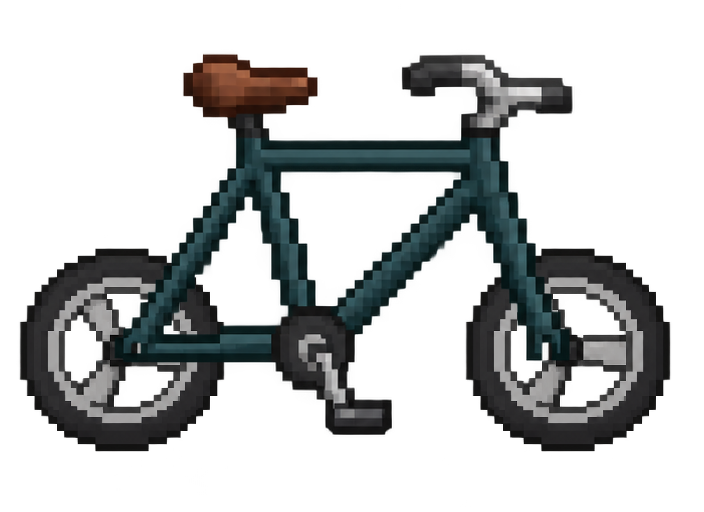
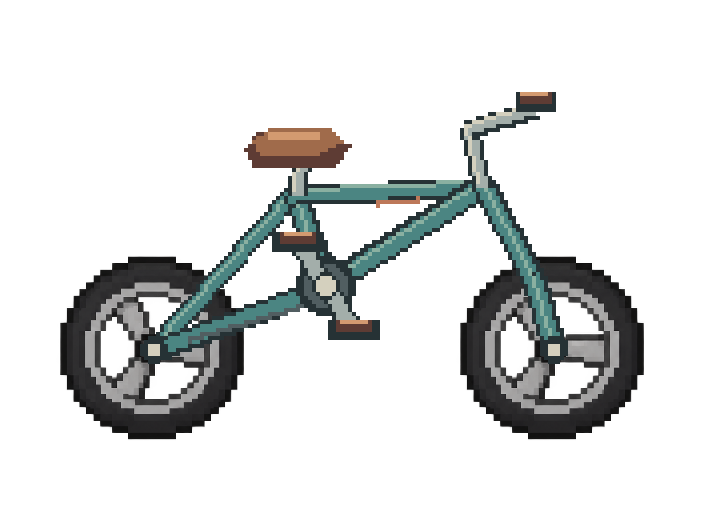
art: 重制Q版自行车车架、曲柄和物品图标

diff --git a/Tools/Art/GenerateChibiBicycle.py b/Tools/Art/GenerateChibiBicycle.py
@@ -1,0 +1,143 @@
+"""生成与 Q 版骑乘锚点匹配的低座自行车车架、曲柄和物品图标。"""
+
+from pathlib import Path
+
+from PIL import Image, ImageDraw
+
+
+PROJECT_ROOT = Path(__file__).resolve().parents[2]
+ART = PROJECT_ROOT / "Assets/6_Art/Generated/Vehicles/Bicycle"
+WIDTH, HEIGHT, PIXEL = 704, 512, 4
+INK = "#263235"
+SHADOW = "#315257"
+FRAME = "#4b8582"
+LIGHT = "#8ab0a1"
+STEEL_SHADOW = "#515e61"
+STEEL = "#a3aeaa"
+STEEL_LIGHT = "#d4d0be"
+LEATHER_DARK = "#5e3c34"
+LEATHER = "#a06b4b"
+LEATHER_LIGHT = "#d39a70"
+ACCENT = "#bd7859"
+
+# 以下均为 Unity 单位，以车架画布中央为 (0,0)；画布和 PPU 保持旧资源值。
+REAR_HUB = (-0.625, -0.29)
+FRONT_HUB = (0.625, -0.29)
+CRANK = (-0.09, -0.09)
+SEAT = (-0.16, 0.32)
+HEAD = (0.40, 0.23)
+WHEEL_VISUAL_SCALE = 0.90
+
+
+def point(xy):
+    x, y = xy
+    return (round((WIDTH / 2 + x * 320) / PIXEL),
+            round((HEIGHT / 2 - y * 320) / PIXEL))
+
+
+def tube(draw, start, end, *, highlight=True):
+    a, b = point(start), point(end)
+    draw.line([a, b], fill=INK, width=6)
+    draw.line([a, b], fill=FRAME, width=4)
+    if highlight:
+        draw.line([(a[0], a[1] - 1), (b[0], b[1] - 1)], fill=LIGHT, width=1)
+
+
+def metal(draw, start, end, width=4):
+    a, b = point(start), point(end)
+    draw.line([a, b], fill=INK, width=width + 2)
+    draw.line([a, b], fill=STEEL, width=width)
+    draw.line([(a[0] - 1, a[1] - 1), (b[0] - 1, b[1] - 1)], fill=STEEL_LIGHT, width=1)
+
+
+def frame():
+    image = Image.new("RGBA", (WIDTH // PIXEL, HEIGHT // PIXEL))
+    d = ImageDraw.Draw(image)
+
+    # 低跨梁与短轴距的实用小车；先画后方三角架，再画前叉和车把。
+    tube(d, REAR_HUB, (-0.19, 0.20))
+    tube(d, REAR_HUB, CRANK, highlight=False)
+    tube(d, (-0.19, 0.20), CRANK)
+    tube(d, (-0.19, 0.20), HEAD)
+    tube(d, CRANK, HEAD)
+    tube(d, HEAD, (0.55, -0.05))
+    tube(d, (0.55, -0.05), FRONT_HUB)
+    # 两端小银色轮轴、下部链条护罩以及车架上的一抹暖红点缀。
+    for hub in (REAR_HUB, FRONT_HUB):
+        x, y = point(hub)
+        d.ellipse((x - 3, y - 3, x + 3, y + 3), fill=INK)
+        d.rectangle((x - 1, y - 1, x + 1, y + 1), fill=STEEL_LIGHT)
+    a, b = point((-0.51, -0.245)), point((-0.09, -0.12))
+    d.line((a, b), fill=STEEL_SHADOW, width=2)
+    metal(d, (-0.18, 0.20), (-0.16, 0.32), 3)
+    metal(d, (0.40, 0.23), (0.36, 0.40), 3)
+    metal(d, (0.36, 0.40), (0.56, 0.46), 3)
+
+    # 坐垫压低到 Q 版角色髋部，轮廓宽厚且后缘略翘。
+    sx, sy = point(SEAT)
+    d.polygon([(sx - 14, sy - 1), (sx - 11, sy - 5), (sx + 7, sy - 5),
+               (sx + 12, sy - 2), (sx + 8, sy + 3), (sx - 12, sy + 3)],
+              fill=LEATHER_DARK)
+    d.polygon([(sx - 12, sy - 3), (sx - 8, sy - 6), (sx + 7, sy - 6),
+               (sx + 10, sy - 3), (sx + 4, sy), (sx - 10, sy)], fill=LEATHER)
+    d.line((sx - 8, sy - 5, sx + 4, sy - 5), fill=LEATHER_LIGHT, width=2)
+
+    # 小而上扬的握把，保证玩家手能靠近；不用竞技公路车的高车架。
+    hx, hy = point((0.56, 0.46))
+    d.line((hx - 4, hy - 2, hx + 5, hy - 2), fill=INK, width=5)
+    d.line((hx - 3, hy - 3, hx + 4, hy - 3), fill=LEATHER_DARK, width=3)
+    d.line((hx - 3, hy - 4, hx + 3, hy - 4), fill=LEATHER_LIGHT, width=1)
+
+    # 主梁局部斜置彩漆；轴心固定、踏板臂留给独立旋转层。
+    a, b = point((0.08, 0.18)), point((0.20, 0.19))
+    d.line((a, b), fill=ACCENT, width=2)
+    cx, cy = point(CRANK)
+    d.ellipse((cx - 7, cy - 7, cx + 7, cy + 7), fill=INK)
+    d.ellipse((cx - 5, cy - 5, cx + 5, cy + 5), fill=STEEL_SHADOW)
+    d.ellipse((cx - 3, cy - 3, cx + 3, cy + 3), outline=STEEL, width=2)
+    return image.resize((WIDTH, HEIGHT), Image.Resampling.NEAREST)
+
+
+def crank():
+    # 中心在曲柄轴：两个踏板朝相反方向，随真实车轮位移同步转动。
+    image = Image.new("RGBA", (160 // PIXEL, 160 // PIXEL))
+    d = ImageDraw.Draw(image)
+    center = (20, 20)
+    tips = ((13, 9), (27, 31))
+    for tip in tips:
+        d.line((center, tip), fill=INK, width=5)
+        d.line((center, tip), fill=STEEL, width=3)
+        x, y = tip
+        d.rectangle((x - 6, y - 2, x + 6, y + 2), fill=INK)
+        d.rectangle((x - 4, y - 2, x + 4, y), fill=LEATHER_DARK)
+        d.line((x - 3, y - 2, x + 3, y - 2), fill=LEATHER_LIGHT, width=1)
+    d.ellipse((17, 17, 23, 23), fill=INK)
+    d.ellipse((18, 18, 22, 22), fill=STEEL_LIGHT)
+    return image.resize((160, 160), Image.Resampling.NEAREST)
+
+
+def icon(frame_sprite, crank_sprite):
+    canvas = Image.new("RGBA", (WIDTH, HEIGHT))
+    wheel = Image.open(ART / "Bicycle_Wheel.png").convert("RGBA")
+    diameter = round(wheel.width * 320 / 500 * WHEEL_VISUAL_SCALE)
+    wheel = wheel.resize((diameter, diameter), Image.Resampling.NEAREST)
+    for center in (REAR_HUB, FRONT_HUB):
+        cx, cy = point(center)
+        cx, cy = cx * PIXEL, cy * PIXEL
+        canvas.alpha_composite(wheel, (cx - diameter // 2, cy - diameter // 2))
+    canvas.alpha_composite(frame_sprite)
+    cx, cy = point(CRANK)
+    canvas.alpha_composite(crank_sprite, (cx * PIXEL - 80, cy * PIXEL - 80))
+    return canvas
+
+
+def main():
+    frame_sprite, crank_sprite = frame(), crank()
+    frame_sprite.save(ART / "Bicycle_Frame.png")
+    crank_sprite.save(ART / "Bicycle_Crank.png")
+    icon(frame_sprite, crank_sprite).save(ART / "Bicycle_Icon.png")
+    print("Bicycle: lowered seat, compact frame, independent crank; artwork exported.")
+
+
+if __name__ == "__main__":
+    main()
